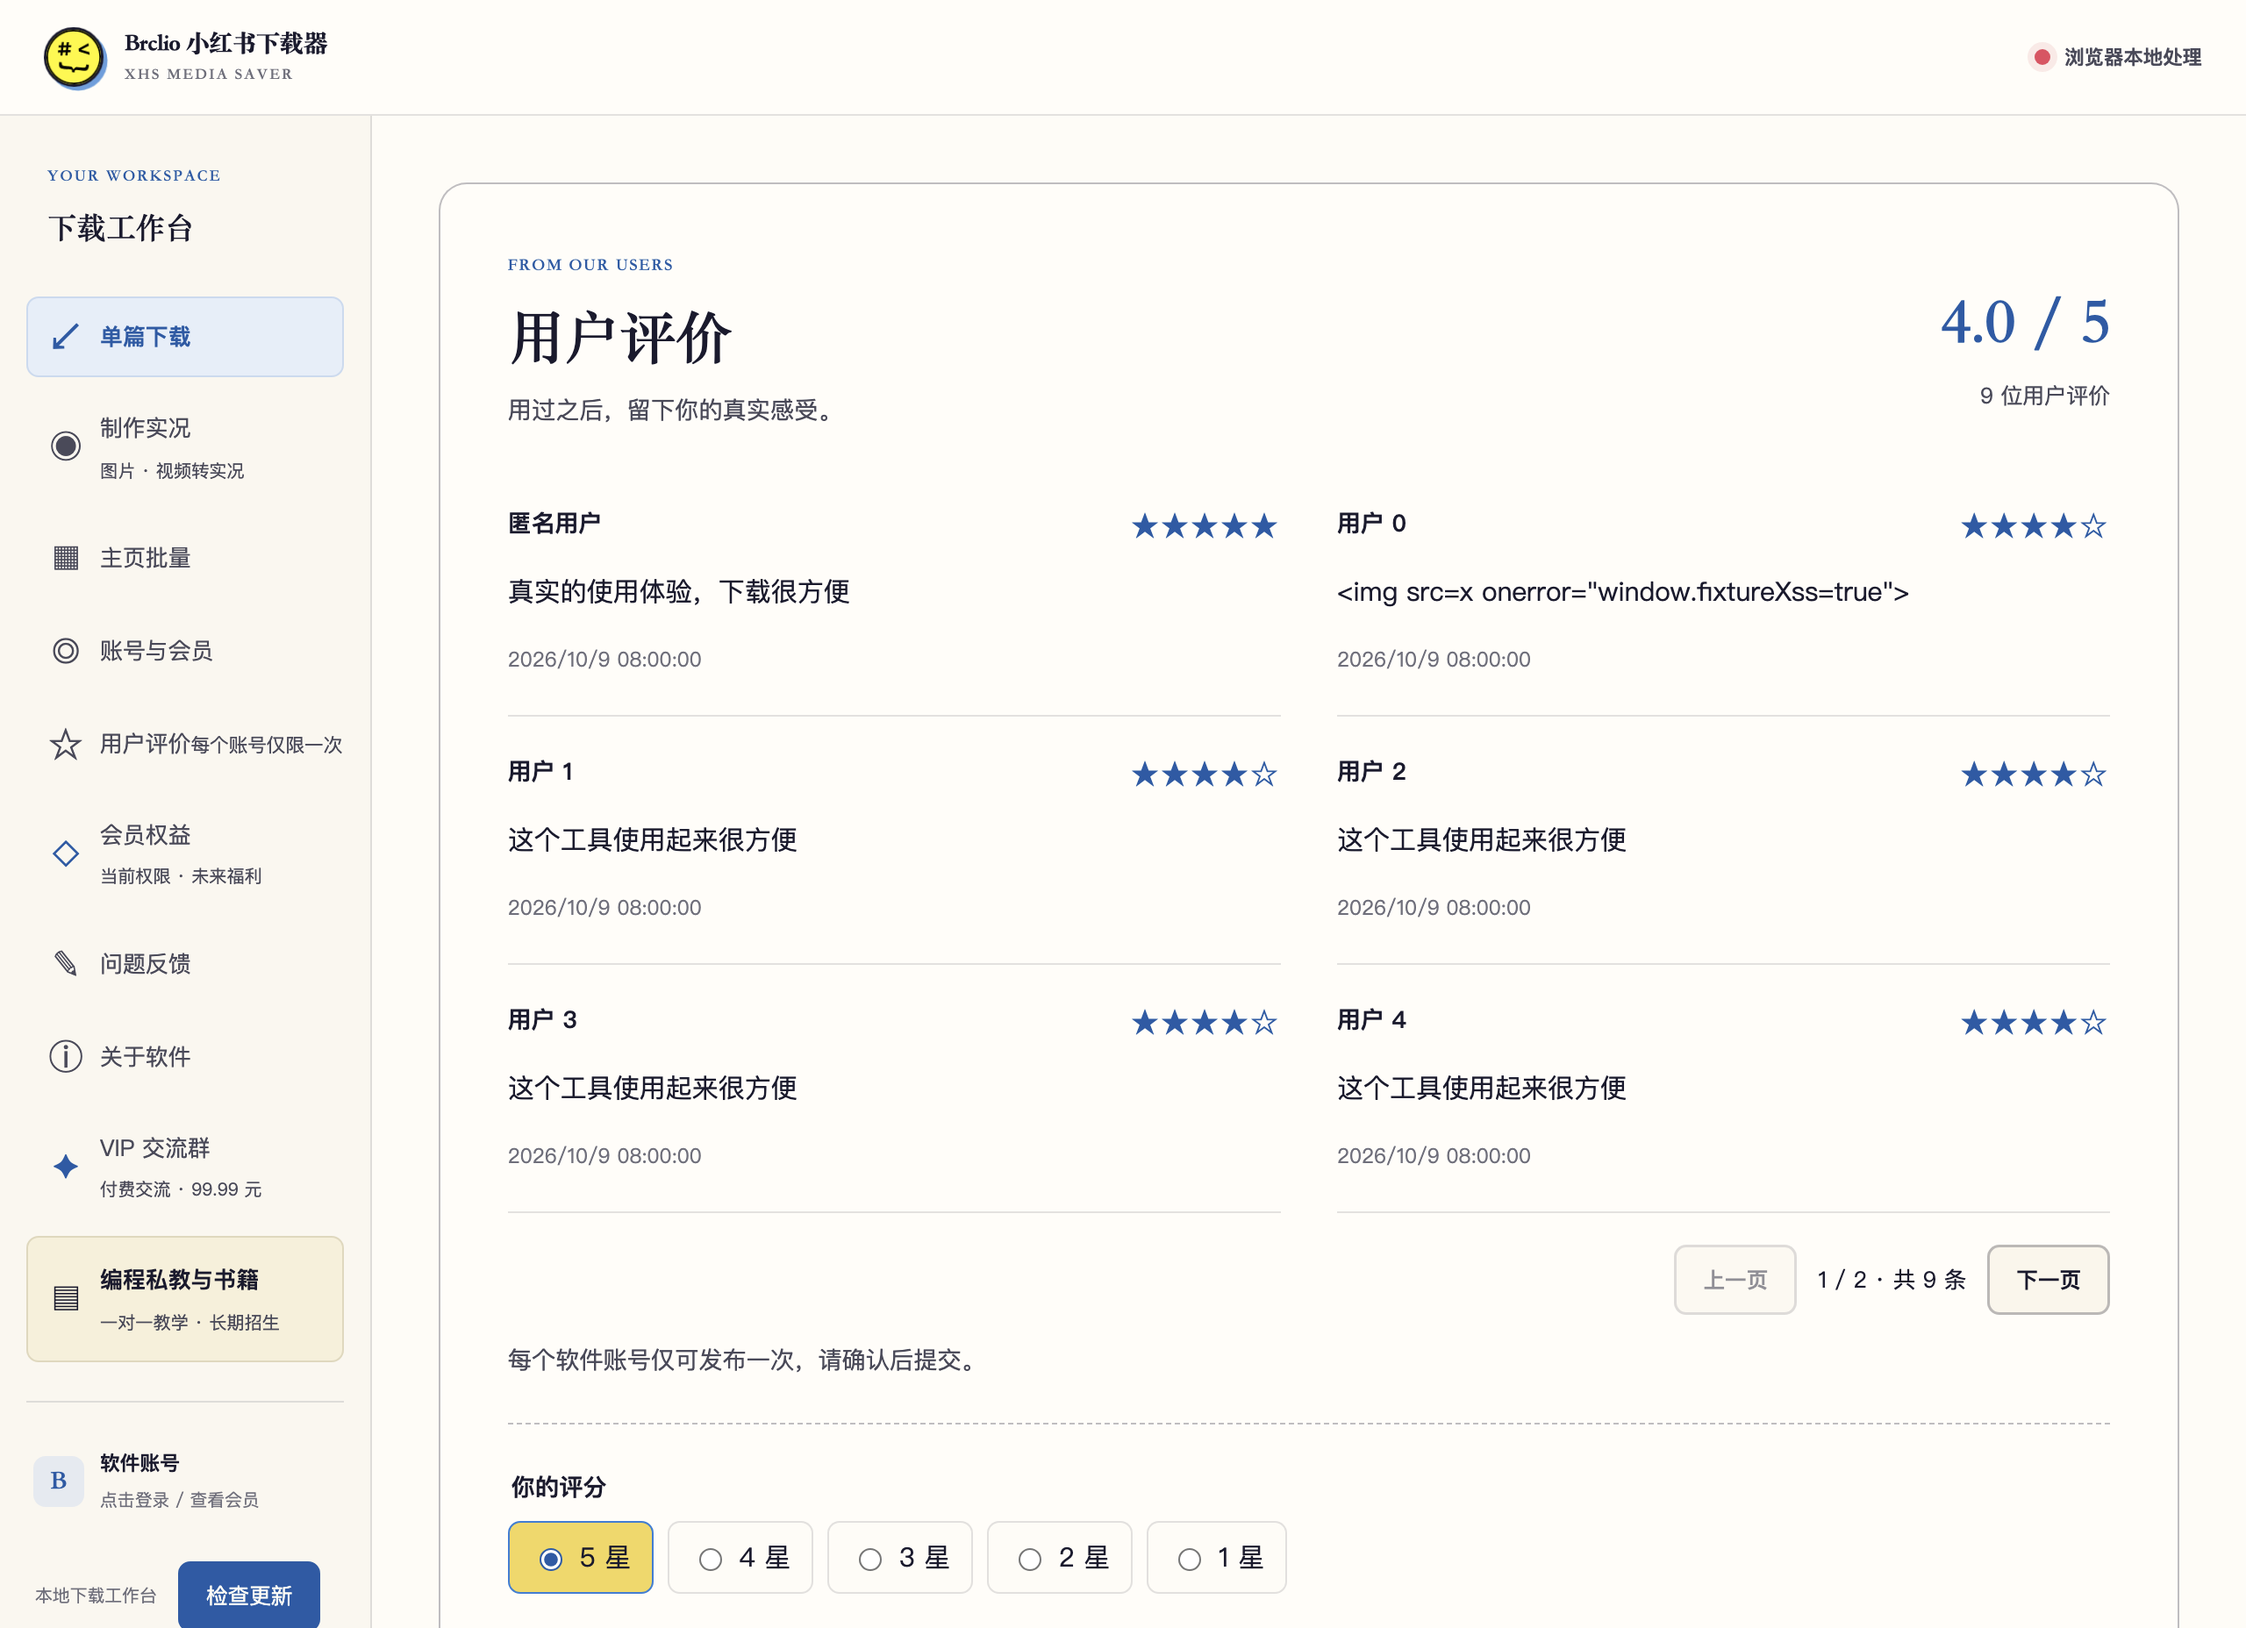
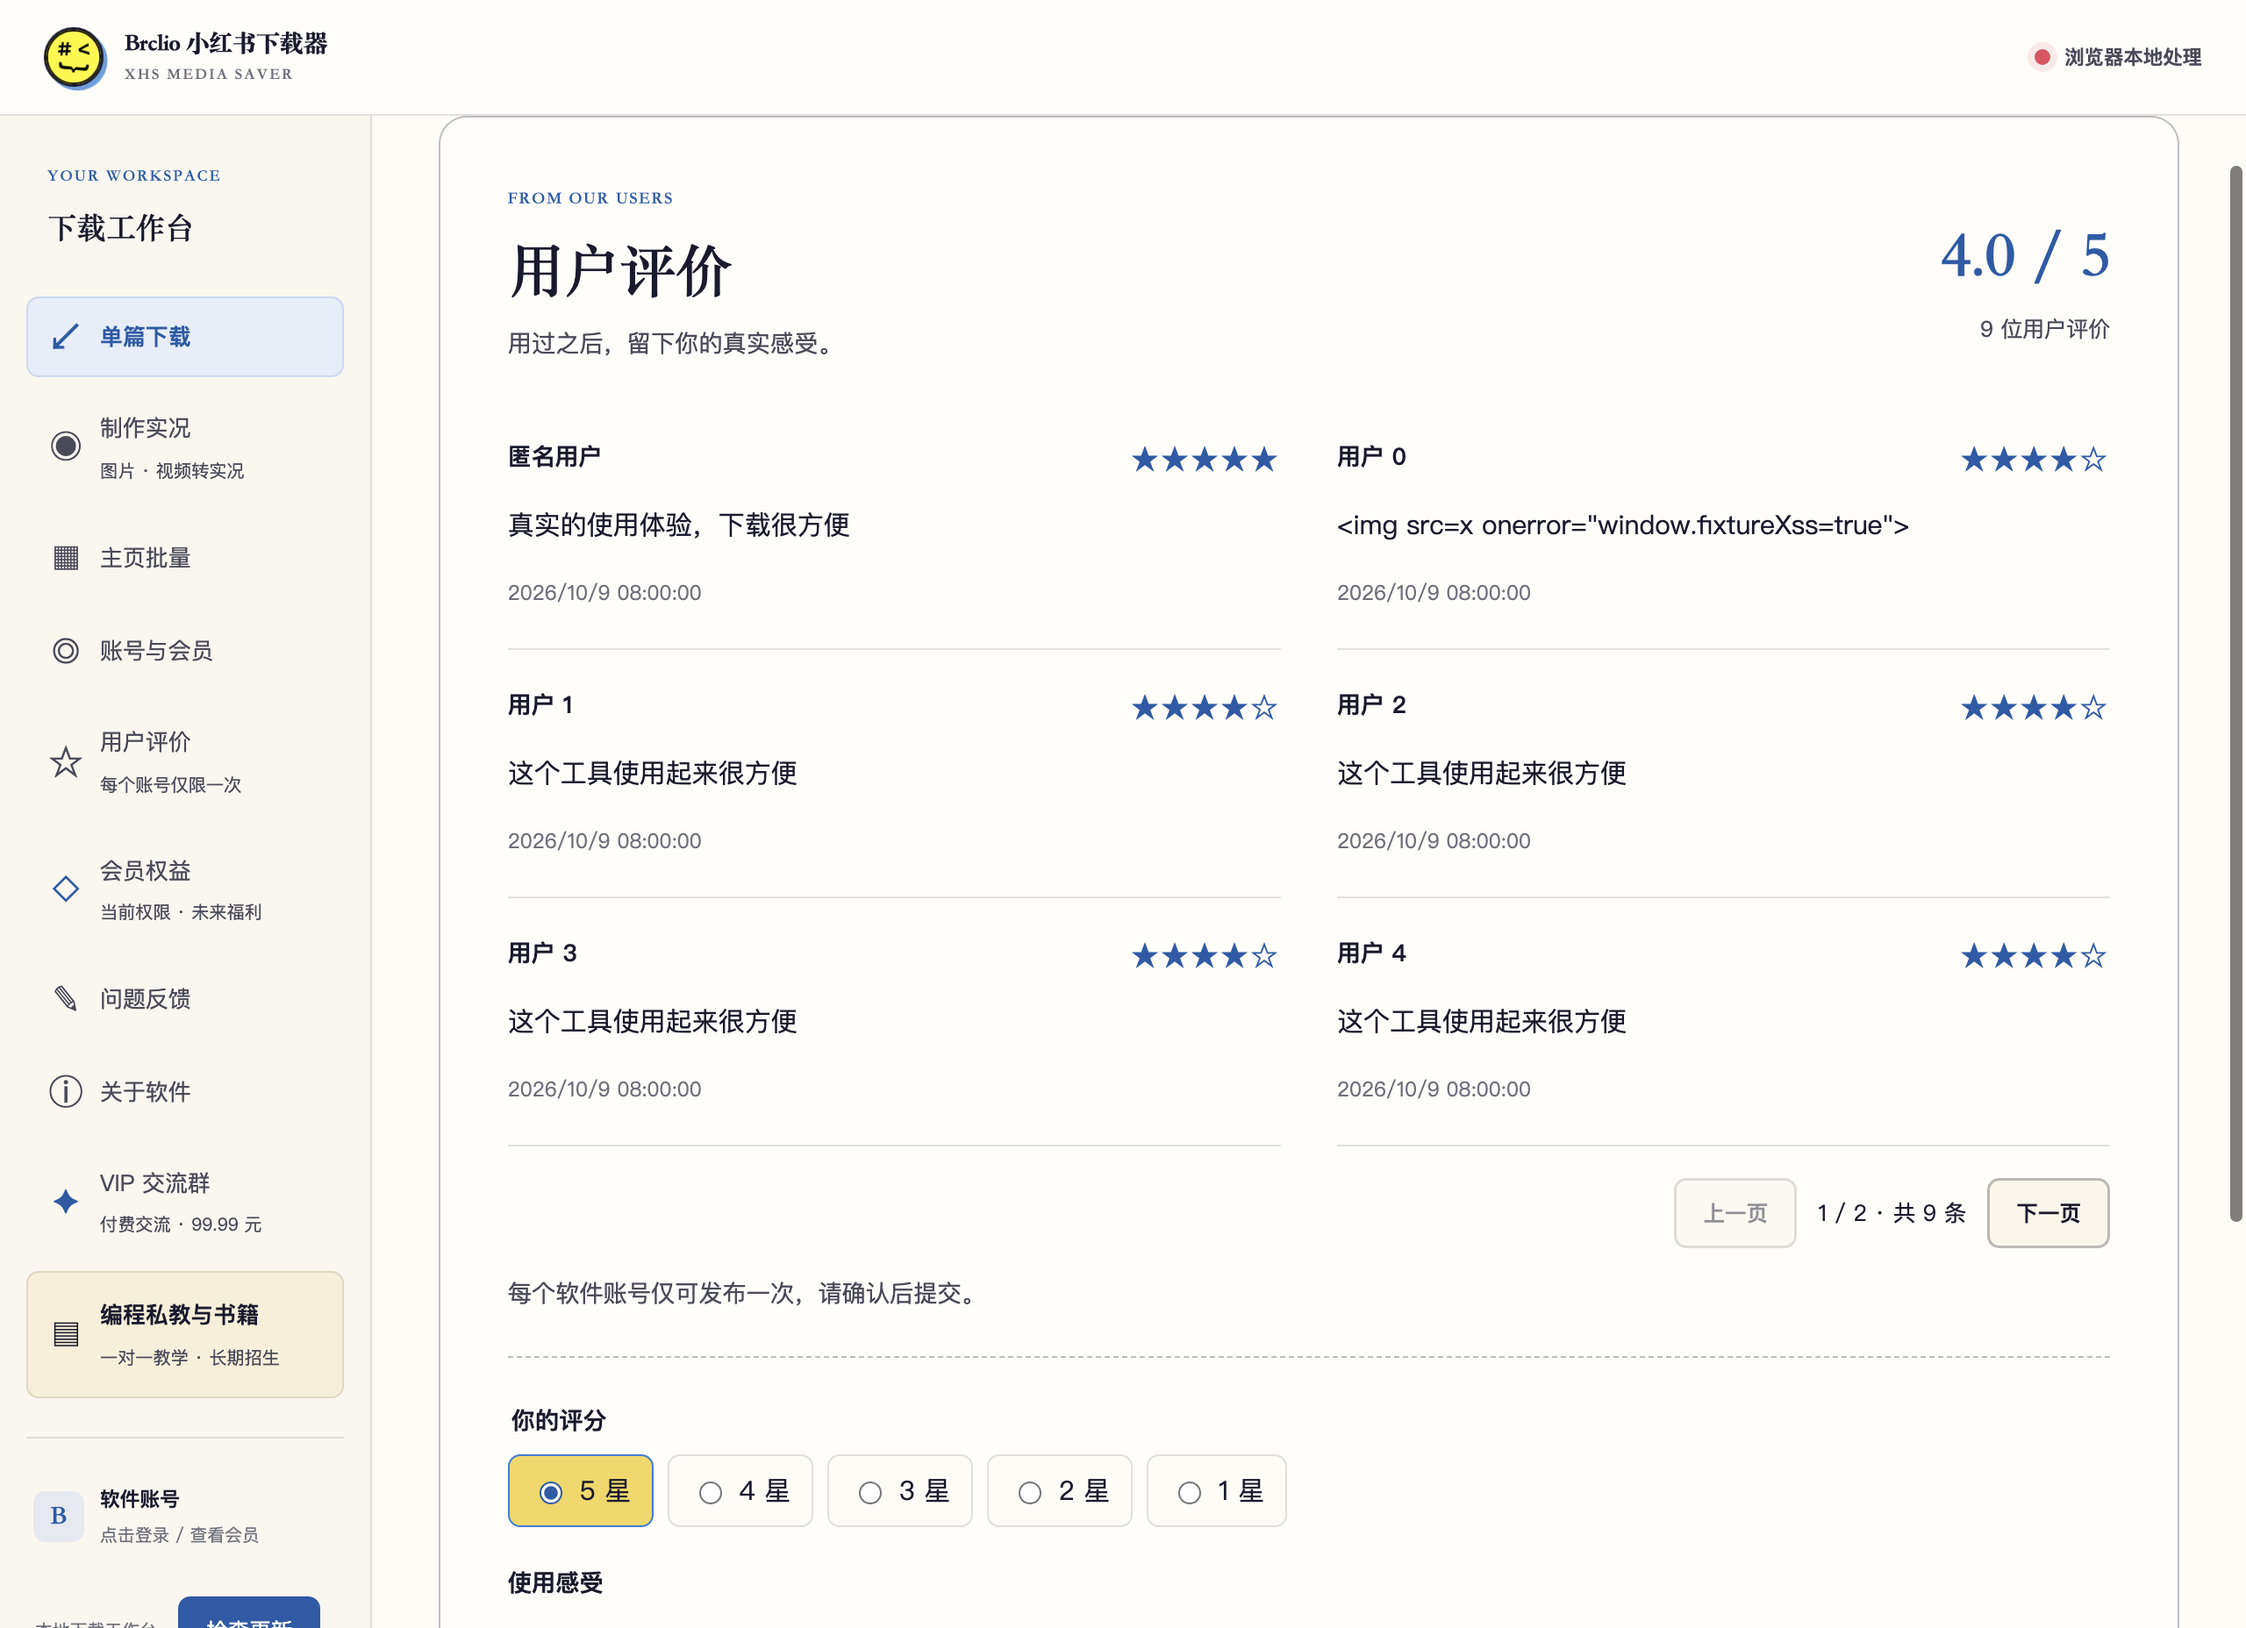
test: complete startup and native browser release acceptance

diff --git a/test/android-upgrade-verifier.test.js b/test/android-upgrade-verifier.test.js
@@ -6,7 +6,8 @@ import path from 'node:path';
 import { fileURLToPath, pathToFileURL } from 'node:url';
 import { captureUiHierarchy, installSourceToggle, packageState, uiNodes, verifyAndroidUpgrade } from '../scripts/verify-android-upgrade.mjs';
 import { copyManualFallbackSources, FALLBACK_BUILD_DEPENDENCIES, FALLBACK_SHARED_ASSETS,
-  manualDownloadControl, selectPublishedAndroid } from '../scripts/verify-android-manual-fallback.mjs';
+  hasManualBrowserIntent, manualDownloadControl, manualFallbackAttemptState,
+  observeManualBrowserIntent, selectPublishedAndroid } from '../scripts/verify-android-manual-fallback.mjs';
 
 test('isolated manual fallback fixture includes every shared asset required by the candidate Gradle bundle', async () => {
   const gradle = await readFile(new URL('../android/app/build.gradle', import.meta.url), 'utf8');
@@ -141,4 +142,58 @@ test('manual fallback acceptance selects a real stable Android APK and rejects a
   const invalid = release('1.0.3'); invalid.assets[0].browser_download_url = 'https://attacker.test/app.apk';
   assert.throws(() => selectPublishedAndroid([invalid]));
   assert.throws(() => selectPublishedAndroid([{ ...release('1.0.3'), draft: undefined }]));
+});
+
+test('manual browser acceptance requires ACTION_VIEW, BROWSABLE, exact APK URL and browser component in one intent', () => {
+  const url = 'https://github.com/Brclio/brclio-xhs-media-downloader/releases/download/android-v1.0.12/Brclio-XHS-Android-1.0.12-release.apk';
+  const intent = `Intent { act=android.intent.action.VIEW cat=[android.intent.category.BROWSABLE] dat=${url} flg=0x800000 cmp=com.android.chrome/IntentDispatcher }`;
+  assert.equal(hasManualBrowserIntent(intent, url, 'com.android.chrome'), true);
+  for (const invalid of [intent.replace('action.VIEW', 'action.MAIN'),
+    intent.replace('category.BROWSABLE', 'category.DEFAULT'), intent.replace(url, `${url}?other=1`),
+    intent.replace('com.android.chrome/', 'com.android.chrome.attacker/'),
+    intent.replace(' cmp=', '\n cmp=')]) {
+    assert.equal(hasManualBrowserIntent(invalid, url, 'com.android.chrome'), false);
+  }
+});
+
+test('completed native fallback network errors can be retried but running or security failures cannot', () => {
+  const observed = { busy: false, tone: 'error', status: '手动下载链接未打开：更新服务连接失败，请检查网络后重试。' };
+  assert.equal(manualFallbackAttemptState(observed).retryable, true);
+  assert.equal(manualFallbackAttemptState({ ...observed, busy: true }).retryable, false);
+  for (const status of ['公开安装包低于当前版本，已阻止打开旧版下载。', '校验文件无效。',
+    '未找到可用浏览器，请先安装或启用浏览器后重试。', '更新安全连接失败，请检查设备时间和网络。']) {
+    assert.equal(manualFallbackAttemptState({ ...observed, status: `手动下载链接未打开：${status}` }).retryable, false);
+  }
+  const state = manualFallbackAttemptState({ ...observed, status: '错误 https://private.test/?token=example password=example' });
+  assert.doesNotMatch(state.status, /private\.test|example/);
+});
+
+test('native manual browser observer fails promptly with the actual completed callback error', async () => {
+  let time = 0, reads = 0;
+  await assert.rejects(observeManualBrowserIntent({
+    expectedUrl: 'https://github.com/example.apk', browserPackage: 'com.android.chrome',
+    readActivity: async () => '',
+    readState: async () => ({ busy: ++reads === 1, tone: 'error',
+      status: '手动下载链接未打开：更新操作超时，请检查网络后重试。' }),
+    now: () => time, wait: async ms => { time += ms; }, timeoutMs: 5000,
+  }), failure => {
+    assert.match(failure.message, /Native manual download failed.*更新操作超时/);
+    assert.equal(failure.retryable, true); assert.equal(reads, 2);
+    return true;
+  });
+});
+
+test('a successful JavaScript callback alone cannot satisfy the native browser intent gate', async () => {
+  let time = 0;
+  await assert.rejects(observeManualBrowserIntent({
+    expectedUrl: 'https://github.com/example.apk', browserPackage: 'com.android.chrome',
+    readActivity: async () => 'com.android.chrome',
+    readState: async () => ({ busy: false, status: '已打开 Android 1.0.12 最新正式版下载链接。' }),
+    now: () => time, wait: async ms => { time += ms; }, timeoutMs: 1000,
+  }), /Timed out waiting for real native ACTION_VIEW/);
+  const url = 'https://github.com/example.apk';
+  const intent = `Intent { act=android.intent.action.VIEW cat=[android.intent.category.BROWSABLE] dat=${url} cmp=com.android.chrome/IntentDispatcher }`;
+  const observed = await observeManualBrowserIntent({ expectedUrl: url, browserPackage: 'com.android.chrome',
+    readActivity: async () => intent, readState: async () => { throw new Error('No renderer assertion can replace the intent'); } });
+  assert.equal(observed.activity, intent);
 });

diff --git a/changelog.html b/changelog.html
@@ -193,10 +193,10 @@
           </aside>
 
           <div id="release-feed" class="release-feed">
-            <article id="reviews-orders-update" class="release-entry release-entry-featured" data-release-platforms="web desktop">
+            <article id="reviews-orders-update" class="release-entry release-entry-featured" data-release-platforms="web desktop android">
               <div class="release-entry-rail"><span class="release-dot" aria-hidden="true"></span><time datetime="2026-10-09"><span>10.09</span><small>2026 · 评价与订单</small></time></div>
               <div class="release-card">
-                <header class="release-card-heading"><div><div class="release-badges"><span class="release-badge release-badge-yellow">v2.0.9</span><span class="release-badge release-badge-blue">网页 · 桌面 · Android 1.0.13</span><span class="release-status">发布准备中</span></div><h3>分享真实评价，查看每一笔订单</h3></div></header>
+                <header class="release-card-heading"><div><div class="release-badges"><span class="release-badge release-badge-yellow">v2.0.9</span><span class="release-badge release-badge-blue">网页 · 桌面 · Android 1.0.13</span><span class="release-status">本次更新</span></div><h3>分享真实评价，查看每一笔订单</h3></div></header>
                 <p class="release-lead">网页首页和桌面侧栏展示用户评价，每个软件账号仅限发布一次；账号页新增全部订单，后台按已核实收款统计营业额。</p>
                 <div class="change-list">
                   <div class="change-item"><span aria-hidden="true">01</span><p><strong>每个账号一次真实评价</strong>任何软件账号都可评分与评价，无需会员；匿名昵称、脱敏正文和评分公开展示，邮箱不公开。</p></div>

diff --git a/desktop-ui.css b/desktop-ui.css
@@ -940,7 +940,7 @@ body.is-desktop .desktop-learning-link[aria-selected="true"] { background: #f2e8
 body.is-desktop .desktop-learning-link[aria-selected="true"]:hover { background: #f2e8c5; }
 body.is-desktop .desktop-learning-link:focus-visible { outline: 3px solid var(--blue); outline-offset: 3px; }
 body.is-desktop .desktop-learning-link small { display: block; margin-top: 5px; color: var(--ink-light); font-size: .63rem; font-weight: 400; }
-body.is-desktop #live-photo-tab small { display: block; margin-top: 5px; color: var(--ink-light); font-size: .63rem; font-weight: 400; }
+body.is-desktop #live-photo-tab small, body.is-desktop #reviews-tab small { display: block; margin-top: 5px; color: var(--ink-light); font-size: .63rem; font-weight: 400; }
 body.is-desktop .desktop-nav-count { margin-left: auto; padding: 2px 5px; border-radius: 4px; background: #e9e1c6; color: #6c5f2d; font-size: .58rem; line-height: 1.55; font-weight: 600; white-space: nowrap; }
 body.is-desktop .desktop-new-badge { background: var(--yellow); color: var(--ink); }
 body.is-desktop .desktop-sidebar-bottom { margin-top: auto; border-top: 1px solid var(--line); padding-top: 17px; }
@@ -1325,3 +1325,4 @@ body.is-desktop .desktop-membership-page { padding: 0; overflow: hidden; scrollb
 body.is-desktop #desktop-membership-frame { display: block; width: 100%; height: 100%; border: 0; background: var(--cream); }
 @media (max-width: 600px) { body.is-desktop .desktop-membership-link small { display: none; } }
 @media (max-width: 600px) { body.is-desktop .desktop-vip-link small { display: none; } }
+@media (max-width: 600px) { body.is-desktop #reviews-tab small { display: none; } }
